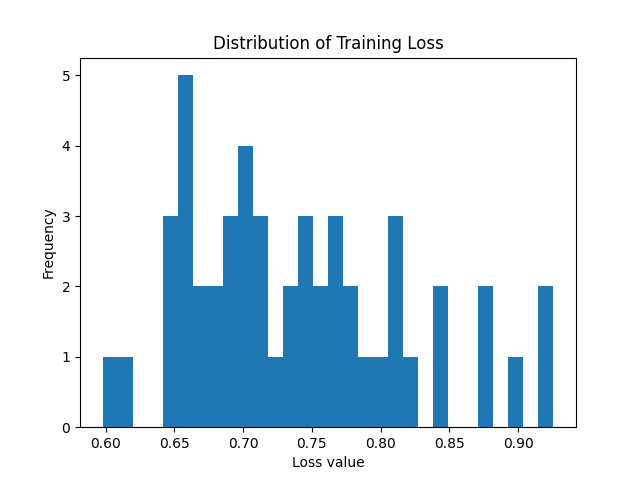
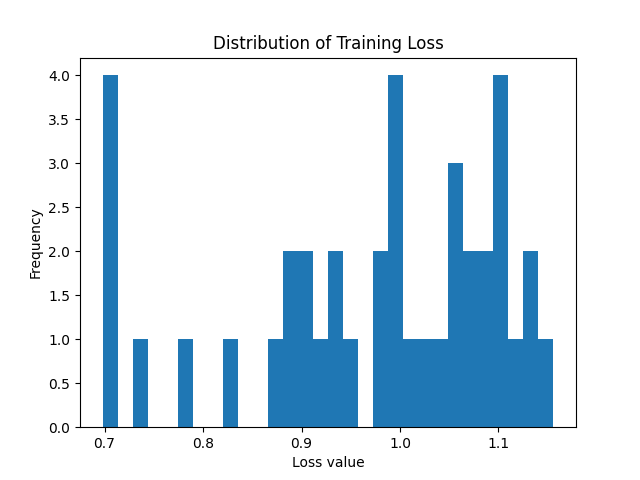
ConvNext initial

diff --git a/Software/PyTorch/code/cnn/train2.py b/Software/PyTorch/code/cnn/train2.py
@@ -1,3 +1,4 @@
+import re
 import torch
 from torch import nn
 from torch.utils.data import DataLoader
@@ -10,12 +11,14 @@ from torch.utils.data import random_split
 sys.path.append(os.path.dirname(os.path.dirname(os.path.abspath(__file__))))
 from animalsounddataset2 import AnimalSoundDataset
 from cnn2 import ConvNeXtBinary
+from sklearn.metrics import f1_score
+from splitting import get_file_based_splits
 
 BATCH_SIZE = 128
 EPOCHS = 10
 LEARNING_RATE = .001 #adjust?
 
-ANNOTATIONS_FILE = "/Users/saranorouzinia/Documents/Anomaly Sound Detection/AnomalySoundDetection/Software/Perch2.0/V2/rapport_anomalies_optimize.csv"
+ANNOTATIONS_FILE = "/Users/saranorouzinia/Documents/Anomaly Sound Detection/AnomalySoundDetection/Software/Perch2.0/V2/CSV/rapport_anomalies_optimize.csv"
 AUDIO_DIR = "/Users/saranorouzinia/Documents/Anomaly Sound Detection/audio"
 SAMPLE_RATE = 32000 #1 sec
 NUM_SAMPLES = 32000 * 5 #5 seconds
@@ -41,18 +44,69 @@ def train_one_epoch(model, data_loader, loss_fn, optimiser, device, epoch_losses
     print(f"Loss: {loss.item()}")
 
 
+def validate(model, data_loader, loss_fn, device):
+    model.eval()
+    all_probs = []
+    all_targets = []
+    total_loss = 0.0
+
+    with torch.no_grad():
+        for inputs, targets in data_loader:
+            inputs, targets = inputs.to(device), targets.to(device)
+            targets_unsqueezed = targets.unsqueeze(1)
+
+            outputs = model(inputs)
+            loss = loss_fn(outputs, targets_unsqueezed)
+            total_loss += loss.item()
+
+            probs = torch.sigmoid(outputs).squeeze(1)
+
+            all_probs.extend(probs.cpu().numpy())
+            all_targets.extend(targets.cpu().numpy())
+
+    # Convert to numpy
+    all_probs = np.array(all_probs)
+    all_targets = np.array(all_targets)
+
+    thresholds = np.linspace(0.1, 0.9, 17)
+    best_f1 = 0
+    best_thresh = 0.5
+
+    for t in thresholds:
+        preds = (all_probs >= t).astype(int)
+        f1 = f1_score(all_targets, preds)
+
+        if f1 > best_f1:
+            best_f1 = f1
+            best_thresh = t
+
+    final_preds = (all_probs >= best_thresh).astype(int)
+    print("Unique preds:", np.unique(final_preds))
+    print("Unique targets:", np.unique(all_targets))
+
+    avg_loss = total_loss / len(data_loader)
+    weighted_f1 = f1_score(all_targets, final_preds, average="weighted", zero_division=0)
+
+    return avg_loss, weighted_f1, best_thresh
+
+
 def train(model, data_loader, loss_fn, optimiser, device, epochs):
+    best_f1 = 0.0
     all_epoch_losses = []
 
     for i in range(epochs):
         print(f"Epoch {i+1}")
+        model.train()
         epoch_losses = []
         train_one_epoch(model, data_loader, loss_fn, optimiser, device, epoch_losses)
 
         all_epoch_losses.append(epoch_losses)
-        print("--------------")
 
-    print("Training is done.")
+        #scheduler.step()  # <-- add this at the end of each epoch
+        #print(f"LR: {scheduler.get_last_lr()}")  # optional but useful to verify it's decaying
+
+
+    print(f"Training done.")
     return all_epoch_losses
 
 if __name__ == "__main__":
@@ -77,43 +131,57 @@ if __name__ == "__main__":
                             NUM_SAMPLES,
                             device)
 
-    # Split dataset
-    train_size = int(0.95 * len(usd)) #95% training data
-    test_size = len(usd) - train_size #5% test data
 
-    train_dataset, test_dataset = random_split(usd, [train_size, test_size]) 
+    #generator = torch.Generator().manual_seed(42)
+    #train_dataset, val_dataset, test_dataset = random_split(
+    #    usd, [train_size, val_size, test_size], generator=generator
+    #)
+ # Split dataset (train/test only)
+    train_dataset, test_dataset = get_file_based_splits(usd, train_size=0.7, test_size=0.3, random_state=42)
+    test_labels = [int(usd[i][1].item()) for i in test_dataset.indices]
+    print("Test class counts:", np.bincount(test_labels))
 
     # Create loaders
-    train_data_loader = DataLoader(train_dataset, batch_size=BATCH_SIZE, shuffle=True)
-    test_data_loader = DataLoader(test_dataset, batch_size=BATCH_SIZE, shuffle=False)
+    train_labels = [int(usd[i][1].item()) for i in train_dataset.indices]
+    class_counts = np.bincount(train_labels)
+    class_weights = [1.0 / class_counts[label] for label in train_labels]
+
+    #just on train dataset
+    #sampler = torch.utils.data.WeightedRandomSampler(class_weights, num_samples=len(class_weights), replacement=True)
+    pos_weight = torch.tensor([class_counts[0] / class_counts[1]]).to(device)
+    train_data_loader = DataLoader(train_dataset, batch_size=BATCH_SIZE, shuffle=True) #sampler is only for training
+    test_data_loader  = DataLoader(test_dataset,  batch_size=BATCH_SIZE, shuffle=False)
 
 
     print(f"Training using {device} device")
     cnn = ConvNeXtBinary().to(device)
     #print(cnn)
 
-    #4 - train model
-
-    labels = usd.annotations.iloc[:,6].map({"RAS":0,"ANOMALIE":1}).fillna(0)
-    class_counts = np.bincount(labels.astype(int))
 
     # BCEWithLogitsLoss with pos_weight for Cross Entry Loss function and Sigmoid function (Logistic Regression)
-    # pos_weight = number of normal samples / number of anomaly samples -> DON'T HARDCODE
-    
-    pos_weight = torch.tensor([class_counts[0] / class_counts[1]]).to(device)
     loss_fn = nn.BCEWithLogitsLoss(pos_weight=pos_weight)
+    print(f"Class counts: RAS={class_counts[0]}, ANOMALIE={class_counts[1]}")
 
     #regularizer applied : tweak value tho
     #Only passing classifier head to optimizer, not the frozen layer because it's unnecessary
     optimiser = torch.optim.Adam(
-        cnn.parameters(),
+        cnn.parameters(), #all parameters - unfrozen backbone
         lr=1e-4,
         weight_decay=1e-5
     ) #updates the model's weights to minimize loss
+
+    #scheduler = torch.optim.lr_scheduler.CosineAnnealingLR(optimiser, T_max=EPOCHS)
+
     all_epoch_losses = train(cnn, train_data_loader, loss_fn, optimiser, device, EPOCHS)
 
-    torch.save(cnn.state_dict(), "cnnnet2.pth") #storing the model
     print("Model trained and stored at cnnnet2.pth")
+    test_loss, test_f1, best_thresh = validate(cnn, test_data_loader, loss_fn, device)
+    torch.save({
+        "model_state_dict": cnn.state_dict(),
+        "threshold": best_thresh
+    }, "cnnnet2.pth") #storing the model
+    
+    print(f"Test loss: {test_loss:.4f} | Test F1: {test_f1:.4f} | Best threshold: {best_thresh:.2f}")
     all_losses = [loss for epoch in all_epoch_losses for loss in epoch]
     
     plt.hist(all_losses, bins=30)

diff --git a/Software/PyTorch/code/cnn/splitting.py b/Software/PyTorch/code/cnn/splitting.py
@@ -1,0 +1,30 @@
+import numpy as np
+import re
+from torch.utils.data import Subset
+
+def get_file_based_splits(dataset, train_size=0.8, test_size=0.2, random_state=42):
+    # 1. Group by base file
+    file_to_indices = {}
+    for idx in range(len(dataset)):
+        filename = dataset.annotations.iloc[idx, 0]
+        base_file = re.sub(r'_part\d+\.wav$', '.wav', filename)
+        if base_file not in file_to_indices:
+            file_to_indices[base_file] = []
+        file_to_indices[base_file].append(idx)
+
+    # 2. Shuffle files
+    file_names = list(file_to_indices.keys())
+    np.random.seed(random_state)
+    np.random.shuffle(file_names)
+
+    # 3. Split files into train and test
+    n = len(file_names)
+    n_train = int(n * train_size)
+    train_files = set(file_names[:n_train])
+    test_files  = set(file_names[n_train:])
+
+    # 4. Expand file splits to segment indices
+    train_indices = [idx for f in train_files for idx in file_to_indices[f]]
+    test_indices  = [idx for f in test_files for idx in file_to_indices[f]]
+
+    return Subset(dataset, train_indices), Subset(dataset, test_indices)

diff --git a/Software/PyTorch/code/cnn/inference2.py b/Software/PyTorch/code/cnn/inference2.py
@@ -1,3 +1,4 @@
+import numpy as np
 import torch
 import torchaudio
 from cnn2 import ConvNeXtBinary
@@ -10,9 +11,10 @@ from torch.utils.data import random_split, DataLoader
 from sklearn.metrics import classification_report, confusion_matrix, precision_recall_curve, average_precision_score, f1_score
 import torch.nn.functional as F
 import matplotlib.pyplot as plt
+from splitting import get_file_based_splits
 from train2 import AUDIO_DIR, NUM_SAMPLES, SAMPLE_RATE, ANNOTATIONS_FILE
 
-def evaluate(model, data_loader, device):
+def evaluate(model, data_loader, device, threshold):
     model.eval()
 
     all_preds = []
@@ -27,7 +29,7 @@ def evaluate(model, data_loader, device):
             outputs = model(inputs)
             probs = torch.sigmoid(outputs) #converts logits to probabilities
             probs = probs.squeeze(1)             # [batch, 1] → [batch]
-            preds = (probs >= 0.5).long()        # threshold at 0.5 → 0 or 1
+            preds = (probs >= threshold).long()        # threshold calculated using PR curve
 
             all_preds.extend(preds.cpu().numpy())
             all_targets.extend(targets.cpu().numpy())
@@ -43,7 +45,7 @@ def predict(model, input, target, class_mapping):
         # Tensor (1, 10) -> given 1 class of input, tries to predict 10 values
 
         prob = torch.sigmoid(predictions).item()          # single probability
-        predicted_index = 1 if prob >= 0.5 else 0   # threshold
+        predicted_index = 1 if prob >= BEST_THRESHOLD else 0   # threshold
         # We are interested with the index with the highest value - highest chance
 
         #map predicted index to a class
@@ -56,8 +58,9 @@ def predict(model, input, target, class_mapping):
 if __name__ == "__main__":
     #load back the model
     cnn = ConvNeXtBinary()
-    state_dict = torch.load("cnnnet2.pth", map_location=torch.device('cpu')) #loading the model we stored
-    cnn.load_state_dict(state_dict) #loading the dict into the model
+    checkpoint = torch.load("cnnnet2.pth", map_location=torch.device('cpu'), weights_only=False) #loading the model we stored
+    cnn.load_state_dict(checkpoint["model_state_dict"]) #loading the dict into the model
+    BEST_THRESHOLD = checkpoint["threshold"]
 
     #load our dataset
     mel_spectrogram = torchaudio.transforms.MelSpectrogram(
@@ -76,7 +79,8 @@ if __name__ == "__main__":
 
     class_mapping = {0: "RAS", 1: "ANOMALIE"}
 
-    #get a sample from the validation dataset for inference
+    #get a sample from the 
+    #ion dataset for inference
     input, target = usd[0][0], usd[0][1] #initial sample both input and target
     input.unsqueeze_(0)
     #[batch size, num_channels, fr, time]
@@ -86,14 +90,12 @@ if __name__ == "__main__":
                                                                                 #they just use integers. class_mapping will map the integers to the classses
     
     #add metrics here
-    train_size = int(0.9 * len(usd))
-    test_size = len(usd) - train_size
 
-    _, test_dataset = random_split(usd, [train_size, test_size])
+    train_dataset, test_dataset = get_file_based_splits(usd, train_size=0.7, test_size=0.3, random_state=42)
 
     test_loader = DataLoader(test_dataset, batch_size=32, shuffle=False) #the size of this batch size determines how fast it trains (larger == faster)
 
-    predictions, targets, probabilities = evaluate(cnn, test_loader, "cpu")
+    predictions, targets, probabilities = evaluate(cnn, test_loader, "cpu", threshold=BEST_THRESHOLD) #rerun using saved BEST_THRESHOLD
 
     # Compute and print F1 score
     f1 = f1_score(targets, predictions, average="weighted")
@@ -104,11 +106,11 @@ if __name__ == "__main__":
     zero_division=0)
     df = pd.DataFrame(report).transpose()
 
-    df.to_csv("classification_report.csv")
+    df.to_csv("classification_report2.csv")
 
     cm = confusion_matrix(targets, predictions)
     cm_df = pd.DataFrame(cm, index=["RAS Actual", "ANOMALIE Actual"], columns=["RAS Predicted", "ANOMALIE Predicted"])
-    with open("classification_report.csv", "a") as f:
+    with open("classification_report2.csv", "a") as f:
         f.write("\nConfusion Matrix\n")
         cm_df.to_csv(f)
 
@@ -132,6 +134,3 @@ if __name__ == "__main__":
     plt.legend()
     plt.savefig("precision_recall_curve.png")
     plt.close()
-
-    
-    #print(f"Predicted: '{predicted}', expected: '{expected}'")

diff --git a/Software/PyTorch/code/animalsounddataset2.py b/Software/PyTorch/code/animalsounddataset2.py
@@ -15,7 +15,8 @@ class AnimalSoundDataset(Dataset):
         self.annotations = self._load_annotations(annotations_file)
         self.audio_dir = audio_dir
         self.device = device
-        self.transformation = transformation.to(self.device)
+        self.transformation = transformation.to(self.device) 
+
         self.target_sample_rate = target_sample_rate
         self.num_samples = num_samples
         # Define yo label mapping here
@@ -58,8 +59,17 @@ class AnimalSoundDataset(Dataset):
         signal = self._cut_if_necessary(signal) #too many samples
         signal = self._right_pad_if_necessary(signal) #zero-pad it if not enough samples
         signal = self.transformation(signal) #pass the signal into the mel spectrogram func
+        # mel spectrogram: (1, 64, T)
+
+        signal = torch.log(signal + 1e-9)
+
+        signal = torch.nn.functional.interpolate(
+            signal.unsqueeze(0), size=(224, 224), mode='bilinear', align_corners=False
+        ).squeeze(0)  # (1, 224, 224)
+
         signal = signal.repeat(3, 1, 1)  # add this — repeats the 1 channel 3 times because ConvNext expects 3 channels not 1
         #signal is a tensor object -> (num_channels, samples)
+        #now its # (3, 224, 224)
 
         #mapping strings to ints for labels
         if pd.isna(label):
@@ -115,7 +125,7 @@ class AnimalSoundDataset(Dataset):
         return self.annotations.iloc[index, 6]
 
 if __name__ == "__main__":
-    ANNOTATIONS_FILE = "/Users/saranorouzinia/Documents/Anomaly Sound Detection/AnomalySoundDetection/Software/Perch2.0/V2/rapport_anomalies_optimize.csv"
+    ANNOTATIONS_FILE = "/Users/saranorouzinia/Documents/Anomaly Sound Detection/AnomalySoundDetection/Software/Perch2.0/V2/CSV/rapport_anomalies_optimize.csv"
     AUDIO_DIR = "/Users/saranorouzinia/Documents/Anomaly Sound Detection/audio"
     SAMPLE_RATE = 22050
     NUM_SAMPLES = 22050 * 5 # 5 seconds if NUM_SAMPLES = 5 * sample_rate

diff --git a/Software/PyTorch/code/cnn/cnn2.py b/Software/PyTorch/code/cnn/cnn2.py
@@ -12,7 +12,7 @@ class ConvNeXtBinary(nn.Module):
 
         # 2. Freeze the backbone - the backbone doesn't train anymore (it's already pre-trained)
         #for param in self.model.features.parameters():
-            #param.requires_grad = False
+        #    param.requires_grad = False
 
         # Get input features of classifier
         in_features = self.model.classifier[2].in_features